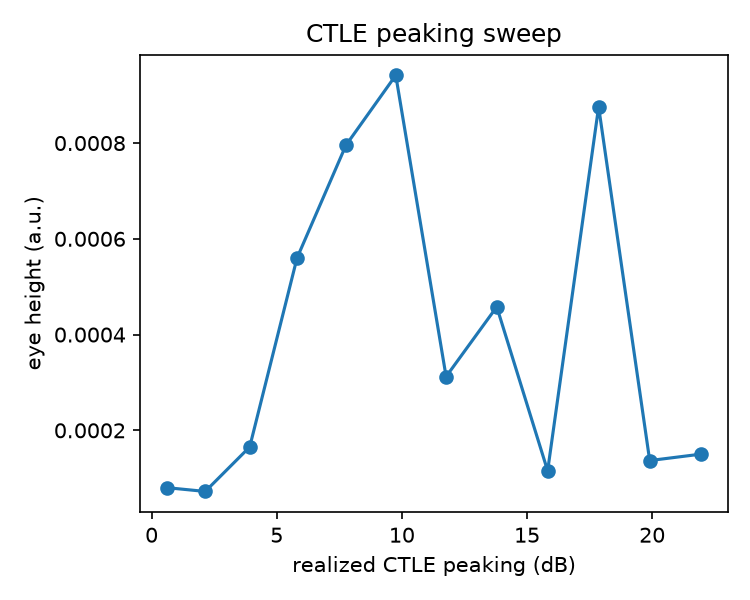
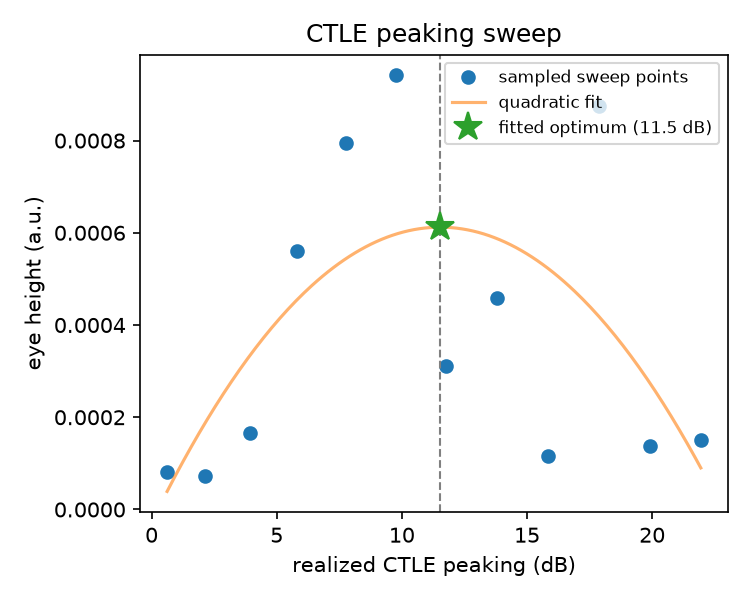
Fix broken iverilog link; clarify the ML/optimization boundary, not a blanket postponement
Icarus Verilog's old homepage (iverilog.icarus.com) 404s; replaced all
three references with the actual upstream repo (github.com/steveicarus/iverilog).

The README/docs said Stage D (analog ML sizing) was "postponed
indefinitely," which read as if all ML/optimization use were off the
table. That's not the actual boundary: ML that designs or judges a
circuit's layout is out of scope, but applied optimization to process
signal and measurement data is not, and wasn't actually represented
anywhere in this repo. Added a real instance of it instead of just
rewording the claim: src/serdeslink/analysis/optimize.py fits a quadratic
to the CTLE peaking sweep and solves for its continuous optimum, rather
than only reporting the best of the 12 sampled grid points. Wired into
scripts/run_link.py's CTLE figure and documented in docs/01-model.md;
2 new tests (20 total).

diff --git a/scripts/run_link.py b/scripts/run_link.py
@@ -26,6 +26,7 @@ from serdeslink import link  # noqa: E402
 from serdeslink.analysis import ber as ber_mod  # noqa: E402
 from serdeslink.analysis import eye as eye_mod  # noqa: E402
 from serdeslink.analysis import jitter as jitter_mod  # noqa: E402
+from serdeslink.analysis import optimize as optimize_mod  # noqa: E402
 from sweep_ctle import sweep as sweep_ctle  # noqa: E402
 from sweep_jtol import sweep as sweep_jtol  # noqa: E402
 
@@ -66,16 +67,35 @@ def fig_ctle_sweep(waveform, samples_per_ui, ui_sec):
     peaks = [r["peaking_db"] for r in results]
     heights = [r["eye_height"] for r in results]
 
+    # Applied optimization on this sweep's own data (see
+    # src/serdeslink/analysis/optimize.py): fit a quadratic and solve for
+    # its vertex, rather than only reporting the best of the 12 sampled
+    # points. This is NOT ML that designs a circuit; it's ordinary least
+    # squares finding where a swept measurement peaks.
+    fit_peak_db, fit_height, coeffs = optimize_mod.fit_optimal_peaking(peaks, heights)
+
     fig, ax = plt.subplots(figsize=(5, 4))
-    ax.plot(peaks, heights, "o-")
+    ax.plot(peaks, heights, "o", label="sampled sweep points")
+    if fit_peak_db is not None:
+        curve_x = np.linspace(min(peaks), max(peaks), 200)
+        curve_y = np.polyval(coeffs, curve_x)
+        ax.plot(curve_x, curve_y, "-", alpha=0.6, label="quadratic fit")
+        ax.axvline(fit_peak_db, color="gray", linestyle="--", linewidth=1)
+        ax.plot([fit_peak_db], [fit_height], "*", markersize=14,
+                label=f"fitted optimum ({fit_peak_db:.1f} dB)")
     ax.set_xlabel("realized CTLE peaking (dB)")
     ax.set_ylabel("eye height (a.u.)")
     ax.set_title("CTLE peaking sweep")
+    ax.legend(fontsize=8)
     fig.tight_layout()
     fig.savefig(IMG_DIR / "ctle_sweep.png", dpi=150)
     plt.close(fig)
 
-    return max(results, key=lambda r: r["eye_height"])
+    best_sampled = max(results, key=lambda r: r["eye_height"])
+    if fit_peak_db is not None:
+        print(f"[ctle] quadratic fit predicts an optimum at {fit_peak_db:.2f} dB "
+              f"peaking (best sampled point was {best_sampled['peaking_db']:.2f} dB)")
+    return best_sampled
 
 
 def fig_dfe(equalized_waveform, samples_per_ui):

diff --git a/src/serdeslink/analysis/optimize.py b/src/serdeslink/analysis/optimize.py
@@ -1,0 +1,38 @@
+"""Applied optimization on measurement/simulation data.
+
+This is the "use math/optimization to process signal and measurement data"
+half of applied ML this project actually does. It is a completely different
+thing from ML that designs or judges a circuit's layout (choosing transistor
+sizes, judging a floorplan), which stays out of scope here; see the ML
+decision in docs/00-spec.md for that distinction spelled out.
+"""
+from __future__ import annotations
+
+import numpy as np
+
+
+def fit_optimal_peaking(peaking_db, eye_height):
+    """Fit a quadratic (least squares) to eye_height vs peaking_db and solve
+    for its vertex: the CONTINUOUS peaking value the data predicts is
+    optimal, not just the best of a handful of sampled grid points. A CTLE
+    sweep genuinely has a single interior optimum (peaking helps, then
+    over-peaking hurts; see docs/01-model.md), so a concave-down quadratic
+    is a reasonable local model near that optimum, not a curve-fitting trick
+    for its own sake.
+
+    Returns
+    -------
+    optimal_peaking_db : float, or None if the fit isn't concave (no
+        interior maximum in this data; the quadratic model doesn't apply)
+    predicted_eye_height : float, or None
+    coeffs : ndarray, the fitted [a, b, c] for a*x^2 + b*x + c
+    """
+    x = np.asarray(peaking_db, dtype=float)
+    y = np.asarray(eye_height, dtype=float)
+    coeffs = np.polyfit(x, y, deg=2)
+    a, b, c = coeffs
+    if a >= 0:
+        return None, None, coeffs
+    x_opt = -b / (2 * a)
+    y_opt = a * x_opt ** 2 + b * x_opt + c
+    return float(x_opt), float(y_opt), coeffs

diff --git a/tests/test_optimize.py b/tests/test_optimize.py
@@ -1,0 +1,25 @@
+import numpy as np
+
+from serdeslink.analysis import optimize
+
+
+def test_fit_optimal_peaking_recovers_known_parabola():
+    true_opt = 10.0
+    peaking = np.linspace(2, 20, 10)
+    height = -1e-5 * (peaking - true_opt) ** 2 + 0.001
+
+    x_opt, y_opt, coeffs = optimize.fit_optimal_peaking(peaking, height)
+
+    assert x_opt is not None
+    assert abs(x_opt - true_opt) < 0.5
+    assert abs(y_opt - 0.001) < 1e-6
+
+
+def test_fit_optimal_peaking_returns_none_when_not_concave():
+    peaking = np.linspace(2, 20, 10)
+    height = 0.001 + 0.0001 * peaking  # monotonic, no interior maximum
+
+    x_opt, y_opt, coeffs = optimize.fit_optimal_peaking(peaking, height)
+
+    assert x_opt is None
+    assert y_opt is None

diff --git a/README.md b/README.md
@@ -18,7 +18,9 @@ equalization, a CTLE, a DFE, and a bang-bang CDR. It closes the loop between
   detector, 2nd-order digital loop filter, and finite-resolution PI, run
   bit-level on an oversampled waveform with an injected ppm offset.
 - `src/serdeslink/analysis/`: eye diagrams, statistical BER (peak-distortion
-  method), and JTOL (linearized loop model).
+  method), JTOL (linearized loop model), and `optimize.py` (fits the CTLE
+  sweep and solves for its continuous optimum: applied optimization on
+  measurement data, not ML that designs a circuit; see the honesty line).
 - Currently runs on a **synthetic** channel (`data/touchstone/`, scikit-rf
   FR4 microstrip). Stage B swaps in a real measured channel with zero code
   changes to `channel.load()`.
@@ -33,7 +35,12 @@ equalization, a CTLE, a DFE, and a bang-bang CDR. It closes the loop between
 | A: Python link model | done | [docs/01-model.md](docs/01-model.md) |
 | B: PCB channel + measurement | not started | `pcb/` |
 | C: SystemVerilog + cocotb | done | [docs/03-rtl.md](docs/03-rtl.md) |
-| D: analog/ML sizing | **postponed indefinitely** | `analog/` |
+| D: analog transistor sizing via ML | **out of scope, not planned** | `analog/` |
+
+That's a specific, deliberate boundary, not a blanket "no ML": this repo
+already uses applied optimization to process measurement data (see
+`src/serdeslink/analysis/optimize.py` and the honesty line below). What's
+out of scope is ML that designs or judges a circuit's layout.
 
 Spec and decisions: [docs/00-spec.md](docs/00-spec.md).
 
@@ -43,11 +50,11 @@ Spec and decisions: [docs/00-spec.md](docs/00-spec.md).
 python -m venv .venv && source .venv/bin/activate   # or .venv\Scripts\activate on Windows
 pip install -r requirements.txt
 pip install -e .
-python -m pytest                # 18 tests: 15 Python (Stage A) + 3 RTL cosims (Stage C)
+python -m pytest                # 20 tests: 17 Python (Stage A) + 3 RTL cosims (Stage C)
 python scripts/run_link.py      # regenerates every figure in docs/imgs/
 ```
 
-Stage C's RTL tests also need [Icarus Verilog](http://iverilog.icarus.com)
+Stage C's RTL tests also need [Icarus Verilog](https://github.com/steveicarus/iverilog)
 on your PATH (`scoop install iverilog` on Windows, `apt install iverilog`
 or `brew install icarus-verilog` elsewhere).
 
@@ -57,8 +64,10 @@ This is a link model plus a synthetic FR4 channel (a real measured channel
 is Stage B) plus digital control RTL cosimulated against that model
 (Stage C). It is **not** a full-rate SerDes PHY tapeout, and the RTL has
 never run on real silicon or an FPGA (that's P2 and P7). ML/optimization
-framing: I'm an applied user of these tools for *analysis*, not claiming to
-have designed anything with ML. See `docs/00-spec.md`.
+framing: this repo uses applied math/optimization to process signal and
+measurement data (see `analysis/optimize.py`'s CTLE-sweep fit); it does
+**not** use ML to design or judge a circuit's layout, and that's a
+deliberate boundary, not something postponed. See `docs/00-spec.md`.
 
 ## Status
 

diff --git a/docs/00-spec.md b/docs/00-spec.md
@@ -33,16 +33,30 @@ PRBS15 -> NRZ -> TX FFE (1 precursor, 1 postcursor) -> finite-rise shaping
         -> eye / statistical BER (peak-distortion) / JTOL (linearized loop)
 ```
 
-## The ML decision (recorded here so it isn't re-litigated)
+## The ML / optimization decision (recorded here so it isn't re-litigated)
 
-**POSTPONED, decided 2026-09-16.** No ML-for-transistor-sizing, and no ML
-"designs" anything in this repo. Where ML shows up (not yet, but noted for
-Stage D if ever un-postponed): applied regression/feature-importance on
-measurement data, for example eye height or BER vs CTLE/DFE settings. It is
-an *analysis* tool, never a design method, and never framed as more than
-that. See the planning repo's `portfolio-projects-reference.txt` section 8
-for the full reasoning; that file is private and not part of this public
-repo.
+Two different things both get called "ML," and only one of them is out of
+scope for this repo.
+
+**Out of scope, not planned:** ML that *designs or judges a circuit*, for
+example a model that proposes analog transistor sizes, or scores a layout.
+That's a real, separate research direction (it was the original idea for
+"Stage D" here), and it stays out of this repo: it would overpromise and
+isn't something I've built.
+
+**In scope, and used here:** applied math/optimization to *process signal
+and measurement data*. This repo doesn't just promise that, it does it:
+`src/serdeslink/analysis/optimize.py` fits a quadratic (ordinary least
+squares) to the CTLE peaking sweep and solves for its vertex, i.e. the
+continuous peaking value the *data* predicts is optimal, rather than only
+reporting the best of the handful of sampled points (see the CTLE sweep
+figure in docs/01-model.md). That's the same kind of applied
+regression/optimization this project uses elsewhere (statistical BER,
+the DFE and CDR's adaptive loop math): read the numbers, fit or solve
+something, report the result. No part of it looks at or judges a circuit's
+layout. See the planning repo's `portfolio-projects-reference.txt` section
+8 for the fuller reasoning; that file is private and not part of this
+public repo.
 
 ## Honesty line
 

diff --git a/analog/README.md b/analog/README.md
@@ -1,4 +1,10 @@
-Stage D: POSTPONED indefinitely (decided 2026-09-16), not scheduled. See
-`docs/00-spec.md`. Not a promise; if ever un-postponed it would be an
-XGBoost-based surrogate-model exploration aid, never a claim that "AI
-designed the circuit."
+Stage D (ML-assisted analog transistor sizing) is out of scope for this
+repo, not just postponed: it's a real, separate research direction (a model
+proposing/judging transistor sizes or a layout), and building it here would
+overpromise. See the full "ML / optimization decision" in
+`docs/00-spec.md`.
+
+That decision is about ML *designing or judging a circuit*, specifically.
+The applied optimization this project actually does on signal/measurement
+data (fitting the CTLE sweep and solving for its optimum) lives in
+`src/serdeslink/analysis/optimize.py`, not here.

diff --git a/docs/01-model.md b/docs/01-model.md
@@ -62,6 +62,13 @@ high-frequency content faster than it recovers signal, exactly the effect
 the project howto calls out. Even at the best CTLE setting the eye is still
 far from open. This channel needs the DFE.
 
+The dashed curve and star are `analysis/optimize.py`'s fit: a least-squares
+quadratic through the swept points, solved for its vertex, so the reported
+optimum isn't limited to the 12 grid points actually sampled. On this run
+it predicts roughly 11.5 dB, close to the best sampled point (about 9.8 dB);
+given how noisy the sweep is at this eye-height scale, treat the fit as a
+sanity check on the grid search, not a more precise answer than it is.
+
 ![DFE convergence](imgs/dfe_taps.png)
 
 Tap 1 (the dominant postcursor) converges to roughly -0.48 of the main

diff --git a/docs/03-rtl.md b/docs/03-rtl.md
@@ -127,6 +127,6 @@ Three real bugs, in the order I hit them:
 ## References
 
 - cocotb docs: https://docs.cocotb.org
-- Icarus Verilog: http://iverilog.icarus.com
+- Icarus Verilog: https://github.com/steveicarus/iverilog
 - The general cocotb "read right after RisingEdge" hazard: see cocotb's own
   synchronization-primitive docs for `ReadOnly` / `FallingEdge`.

diff --git a/rtl/README.md b/rtl/README.md
@@ -15,5 +15,5 @@ Files:
 - `serdes_digital_top.sv`: flat-IO wrapper bundling all three, the
   eventual P2 (Tiny Tapeout) target.
 
-Requires [Icarus Verilog](http://iverilog.icarus.com) on your PATH and
+Requires [Icarus Verilog](https://github.com/steveicarus/iverilog) on your PATH and
 `cocotb` (in `requirements.txt`).
